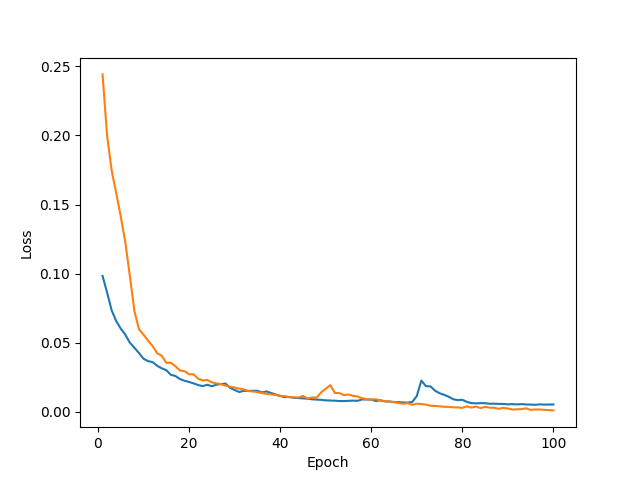
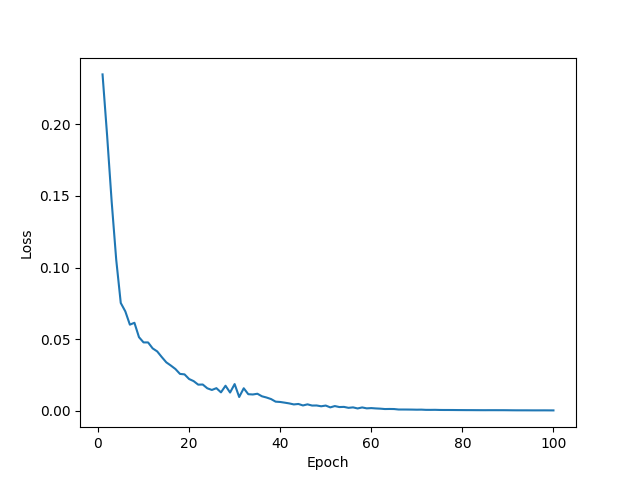
Reran the two label model

diff --git a/cnnmodel_periodic_stochastic.py b/cnnmodel_periodic_stochastic.py
@@ -72,6 +72,7 @@ def main():
   epochs = range(1,len(loss)+1)
 #  val_loss = history.history['val_loss']
 
+  plt.clf()
   plt.plot(epochs,loss)
   plt.xlabel('Epoch') 
   plt.ylabel('Loss')
